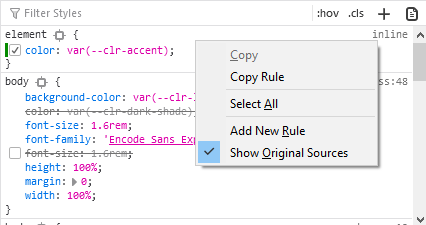
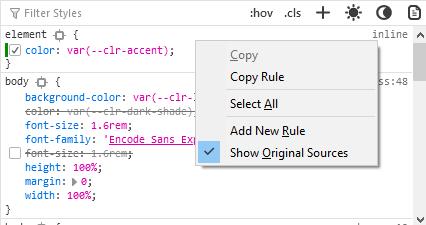
FF87 Color scheme simulation updates (#2562)
* Experimental features: remove color-scheme-simulation pref

* Cross link the media query to the developer tools

* Initial work on Examine/edit CSS page

* Fix up images and docs

* Add release note for FF87

* Also add see also link to page inspector tools

* Compressed images

* Fixes following feedback

* updates following bcd feedback

* small correction

diff --git a/files/en-us/tools/page_inspector/how_to/examine_and_edit_css/index.html b/files/en-us/tools/page_inspector/how_to/examine_and_edit_css/index.html
@@ -14,15 +14,15 @@ tags:
 
 <p>The <a href="/en-US/docs/Tools/Page_Inspector/UI_Tour#rules_view">Rules view</a> lists all the rules that apply to the selected element, ordered from most-specific to least-specific:</p>
 
-<p><img alt="Rules view panel as of Firefox 72" src="rules_view_fx_72.png" style="border: 1px solid black; display: block; margin-left: auto; margin-right: auto;"></p>
+<p><img alt="Rules view panel as of Firefox 87" src="rules_view_ff_87.png" style="border: 1px solid black; display: block; margin-left: auto; margin-right: auto;"></p>
 
-<p>The four buttons on the right top of the rules view allow you to change the display of certain CSS and rules view features. You can:</p>
+<p>The six buttons on the right top of the rules view allow you to change the display of certain CSS and rules view features. You can:</p>
 
 <ul>
  <li><a href="#viewing_common_pseudo-classes">toggle pseudo-classes</a>;</li>
  <li><a href="#viewing_and_changing_classes_on_an_element">toggle classes</a>;</li>
  <li>add a new rule;</li>
- <li>change the display based on the color scheme preference (as of Firefox 72, you must set <code>devtools.inspector.color-scheme-simulation.enabled</code> to <strong>true</strong> in the <a href="https://support.mozilla.org/en-US/kb/about-config-editor-firefox">Configuration Editor</a> to enable this feature);</li>
+ <li>change the display based on <a href="#view_media_rules_for_prefers-color-scheme"><code>prefers-color-scheme</code> media rules</a>.</li>
  <li>change the display based on <a href="#view_media_rules_for_print">print media rules</a>.</li>
 </ul>
 
@@ -38,8 +38,9 @@ tags:
 
 <p>CSS properties have varied level of support across different browsers. From Firefox 81, compatibility tooltips may be displayed next to any CSS properties that have known compatibility issues, as shown below.</p>
 
-<div class="note">
-<p>This feature is enabled from Firefox 81 by setting the preference <code>devtools.inspector.ruleview.inline-compatibility-warning.enabled</code> to <code>true</code> (open <code>about.config</code> in the URL bar to view/set Firefox preferences).</p>
+<div class="notecard note">
+  <h4>Note</h4>
+  <p>This feature is enabled from Firefox 81 by setting the preference <code>devtools.inspector.ruleview.inline-compatibility-warning.enabled</code> to <code>true</code> (open <code>about.config</code> in the URL bar to view/set Firefox preferences).</p>
 </div>
 
 <p><img alt="Tooltip displayed next to CSS element. Hover to find out browsers with compatibility issues." src="firefox_compatibility_tootips.jpg"></p>
@@ -96,8 +97,9 @@ tags:
 
 <p><img alt="" src="filtered_rules.png" style="border: 1px solid black; display: block; margin-left: auto; margin-right: auto;">Click the "X" at the end of the search box to remove the filter.</p>
 
-<div class="note">
-<p>While in the Rules view, you can press <kbd>Ctrl</kbd> / <kbd>Cmd</kbd> + <kbd>F</kbd> to focus the search field. Once you've typed in a filter, you can press <kbd>Esc</kbd> to remove it again.</p>
+<div class="notecard note">
+  <h4>Note</h4>
+  <p>While in the Rules view, you can press <kbd>Ctrl</kbd> / <kbd>Cmd</kbd> + <kbd>F</kbd> to focus the search field. Once you've typed in a filter, you can press <kbd>Esc</kbd> to remove it again.</p>
 </div>
 
 <p>{{EmbedYouTube("9w8vDIWqnAE")}}</p>
@@ -196,15 +198,9 @@ tags:
 
 <p>When on, any rules defined for printing the page will be displayed similar to the "Print Preview" mode that many word processing applications provide.</p>
 
-<h3 id="View_media_rules_for_color-scheme-preference">View @media rules for color-scheme-preference</h3>
+<h3 id="View_media_rules_for_prefers-color-scheme">View @media rules for prefers-color-scheme</h3>
 
-<div class="notecard note">
-<p>As of Firefox 72, you must set <code>devtools.inspector.color-scheme-simulation.enabled</code> to <strong>true</strong> in the <a href="https://support.mozilla.org/en-US/kb/about-config-editor-firefox">Configuration Editor</a> to enable this feature.</p>
-
-<p>If you have set <code>privacy.resistFingerprinting</code> to <strong>true</strong>, <code><a href="/en-US/docs/Web/CSS/@media/prefers-color-scheme">prefers-color-scheme</a></code><a href="/en-US/docs/Web/CSS/@media/prefers-color-scheme"> </a>preference is overridden to <code>light</code>. In order to use this simulator, you must set <code>privacy.resistFingerprinting</code> to <strong>false</strong>.</p>
-</div>
-
-<p>You can use the color scheme simulator to see how the styles display based on the <code><a href="/en-US/docs/Web/CSS/@media/prefers-color-scheme">prefers-color-scheme</a></code> media query, if it is defined for the page. The color scheme simulator has four states, which you can cycle through by clicking the button repeatedly:</p>
+<p>The color scheme simulator buttons can be used to test the rendering of styles based on the <code><a href="/en-US/docs/Web/CSS/@media/prefers-color-scheme">prefers-color-scheme</a></code> media query (if any are defined for the page). There are two buttons, which enable the light and dark preference, respectively. Selecting either button deselects the other. If neither button is selected then the simulator does not set a preference, and the browser renders using the default feature value set by the operating system.</p>
 
 <table class="standard-table">
  <thead>
@@ -218,22 +214,33 @@ tags:
   <tr>
    <td><img alt="" src="color_scheme_null.png" style="border-style: solid; border-width: 1px;"></td>
    <td>null</td>
-   <td>The <code>prefers-color-scheme</code> media feature is not defined.</td>
+   <td>The <code>prefers-color-scheme</code> media feature is not set by the simulator.
+  </td>
   </tr>
   <tr>
    <td><img alt="" src="color_scheme_light.png" style="border-style: solid; border-width: 1px;"></td>
    <td><code>light</code></td>
-   <td>The user prefers a light interface.</td>
+   <td>The <code>prefers-color-scheme</code> media feature is set to <code>light</code>.</td>
   </tr>
   <tr>
-   <td><img alt="" src="color_scheme_dark.png" style="border-style: solid; border-width: 0px;"></td>
+   <td><img alt="" src="color_scheme_dark.png" style="border-style: solid; border-width: 1px;"></td>
    <td><code>dark</code></td>
-   <td>The user prefers a dark interface.</td>
+   <td>The <code>prefers-color-scheme</code> media feature is set to <code>dark</code>.</td>
   </tr>
  </tbody>
 </table>
 
-<p>Note that the first three states of the button may be difficult to distinguish visually. They typically produce a similar effect.</p>
+<p>Note that if the operating system mode is set to a particular mode, then simulating that mode will not change page rendering (i.e. simulating dark mode when the operating system is using dark mode will not change the display).</p>
+
+<div class="notecard note">
+  <h4>Note</h4> 
+  <p>If <code>privacy.resistFingerprinting</code> has been set <strong>true</strong>, the <code><a href="/en-US/docs/Web/CSS/@media/prefers-color-scheme">prefers-color-scheme</a></code> preference is forced to <code>light</code>. You must set <code>privacy.resistFingerprinting</code> to <strong>false</strong> in order to use this feature.</p>
+</div>
+
+<div class="notecard note">
+  <h4>Note</h4>
+  <p>Before Firefox 87 this feature is behind the preference <code>devtools.inspector.color-scheme-simulation.enabled</code>.</p>
+</div>
 
 <h2 id="Examine_computed_CSS">Examine computed CSS</h2>
 
@@ -251,8 +258,9 @@ tags:
 
 <p>Typing in the search box performs a live filtering of the list, so, for example, if you just want to see font-related settings, you can type "font" in the search box, and only properties with "font" in the name will be listed. You can also search for the values of properties: to find the rule responsible for setting the font to "Lucida Grande", type that in the search box.</p>
 
-<div class="note">
-<p>While in the Computed view, you can press <kbd>Ctrl</kbd> / <kbd>Cmd</kbd> + <kbd>F</kbd> to focus the search field. Once you've typed in a filter, you can press <kbd>Esc</kbd> to remove it again.</p>
+<div class="notecard note">
+  <h4>Note</h4>
+  <p>While in the Computed view, you can press <kbd>Ctrl</kbd> / <kbd>Cmd</kbd> + <kbd>F</kbd> to focus the search field. Once you've typed in a filter, you can press <kbd>Esc</kbd> to remove it again.</p>
 </div>
 
 <h2 id="Edit_rules">Edit rules</h2>
@@ -299,9 +307,10 @@ tags:
 <p><img alt="" src="track_changes.png" style="border: 1px solid black; display: block; margin: 0 auto;"></p>
 
 <div class="notecard note">
-<p><strong>Note:</strong> You can view changes made to the rules view only. If you edit the CSS using the Style Editor, the changes will not be shown in the changes pane.</p>
-
-<p>Also remember, as noted above, that changes you make to the CSS rules are temporary and will be reset if you reload the page.</p>
+  <h4>Note</h4>
+  <p>You can view changes made to the rules view only. If you edit the CSS using the Style Editor, the changes will not be shown in the changes pane.</p>
+  
+  <p>Also remember, as noted above, that changes you make to the CSS rules are temporary and will be reset if you reload the page.</p>
 </div>
 
 <p>If you are satisfied with the changes you have made, you can copy the new settings to page the edited rule into your stylesheet. Right-click on the changes panel and select <strong>Copy Rule</strong> from the context menu.</p>

diff --git a/files/en-us/web/css/@media/prefers-color-scheme/index.html b/files/en-us/web/css/@media/prefers-color-scheme/index.html
@@ -9,20 +9,17 @@ tags:
   - media feature
   - prefers-color-scheme
 ---
-<div class="notecard note">
-<p>If you have set <code>privacy.resistFingerprinting</code> to <strong>true</strong>, {{cssxref("@media/prefers-color-scheme", "prefers-color-scheme")}} preference is overridden to <code>light</code>.<br>
- Alternately, users can create the numeric preference <code>ui.systemUsesDarkTheme</code> to override the default behavior and return <code>light</code> (value: 0), <code>dark</code> (value: 1), or <code>no-preference</code> (value: 2). (Any other value causes Firefox to return <code>light</code>.)</p>
-</div>
+<p>The <strong><code>prefers-color-scheme</code></strong> <a href="/en-US/docs/Web/CSS">CSS</a> <a href="/en-US/docs/Web/CSS/Media_Queries/Using_media_queries#media_features">media feature</a> is used to detect if the user has requested a light or dark color theme.</p>
 
-<p>The <strong><code>prefers-color-scheme</code></strong> <a href="/en-US/docs/CSS">CSS</a> <a href="/en-US/docs/Web/CSS/Media_Queries/Using_media_queries#Media_features">media feature</a> is used to detect if the user has requested the system use a light or dark color theme.</p>
+<p>The user might indicate this preference through an operating system setting (e.g. light or dark mode) or a user agent setting.</p>
 
 <h2 id="Syntax">Syntax</h2>
 
 <dl>
  <dt><code><dfn>light</dfn></code></dt>
- <dd>Indicates that user has notified the system that they prefer an interface that has a light theme, or has not expressed an active preference.</dd>
+ <dd>Indicates that user has notified that they prefer an interface that has a light theme, or has not expressed an active preference.</dd>
  <dt><code><dfn>dark</dfn></code></dt>
- <dd>Indicates that user has notified the system that they prefer an interface that has a dark theme.</dd>
+ <dd>Indicates that user has notified that they prefer an interface that has a dark theme.</dd>
 </dl>
 
 <h2 id="Examples">Examples</h2>
@@ -94,6 +91,7 @@ tags:
 <h2 id="See_also">See also</h2>
 
 <ul>
+ <li><a href="/en-US/docs/Tools/Page_Inspector/How_to/Examine_and_edit_CSS#view_media_rules_for_prefers-color-scheme">Simulate prefers-color-scheme in Firefox</a> (Firefox Page Inspector > Examine and edit CSS)</li>
  <li><a href="https://www.youtube.com/watch?v=jmepqJ5UbuM">Video tutorial: Coding a Dark Mode for your Website</a></li>
  <li><a href="https://stuffandnonsense.co.uk/blog/redesigning-your-product-and-website-for-dark-mode">Redesigning your product and website for dark mode</a></li>
  <li>Changing color schemes in <a href="https://blogs.windows.com/windowsexperience/2019/04/01/windows-10-tip-dark-theme-in-file-explorer/">Windows</a>, <a href="https://developer.apple.com/design/human-interface-guidelines/macos/visual-design/dark-mode/">macOS</a> and <a href="https://www.theverge.com/2019/5/7/18530599/google-android-q-features-hands-on-dark-mode-gestures-accessibility-io-2019">Android</a>.</li>

diff --git a/files/en-us/mozilla/firefox/experimental_features/index.html b/files/en-us/mozilla/firefox/experimental_features/index.html
@@ -1656,46 +1656,6 @@ tags:
 
 <p>Mozilla's developer tools are constantly evolving. We experiment with new ideas, add new features, and test them on the Nightly and Developer Edition channels before letting them go through to beta and release. The features below are the current crop of experimental developer tool features.</p>
 
-<h4 id="Color_scheme_simulation">Color scheme simulation</h4>
-
-<p>Adds an option to simulate different color schemes allowing to test {{cssxref("@media/prefers-color-scheme", "@prefers-color-scheme")}} media queries. Using this media query lets your style sheet specify whether it prefers a light or dark user interface. This feature lets you test your code without having to change settings in your browser (or operating system, if the browser follows a system-wide color scheme setting). (See {{bug(1550804)}} and {{bug(1137699)}} for more details.)</p>
-
-<table class="standard-table" style="max-width: 42rem;">
- <thead>
-  <tr>
-   <th scope="col" style="vertical-align: bottom;">Release channel</th>
-   <th scope="col" style="vertical-align: bottom;">Version added</th>
-   <th scope="col" style="vertical-align: bottom;">Enabled by default?</th>
-  </tr>
- </thead>
- <tbody>
-  <tr>
-   <th scope="row">Nightly</th>
-   <td>72</td>
-   <td>No</td>
-  </tr>
-  <tr>
-   <th scope="row">Developer Edition</th>
-   <td>72</td>
-   <td>No</td>
-  </tr>
-  <tr>
-   <th scope="row">Beta</th>
-   <td>72</td>
-   <td>No</td>
-  </tr>
-  <tr>
-   <th scope="row">Release</th>
-   <td>72</td>
-   <td>No</td>
-  </tr>
-  <tr>
-   <th scope="row">Preference name</th>
-   <th colspan="2"><code>devtools.inspector.color-scheme-simulation.enabled</code></th>
-  </tr>
- </tbody>
-</table>
-
 <h4 id="Execution_context_selector">Execution context selector</h4>
 
 <p>This feature displays a button on the console's command line that lets you change the context in which the expression you enter will be executed. (See {{bug(1605154)}} and {{bug(1605153)}} for more details.)</p>

diff --git a/files/en-us/mozilla/firefox/releases/87/index.html b/files/en-us/mozilla/firefox/releases/87/index.html
@@ -15,9 +15,8 @@ tags:
 
 <h3 id="Developer_Tools">Developer Tools</h3>
 
-
-
 <ul>
+  <li>Developers can now use the <a href="/en-US/docs/Tools/Page_Inspector/How_to/Examine_and_edit_CSS#view_media_rules_for_prefers-color-scheme">Page Inspector</a> to simulate {{cssxref("@media/prefers-color-scheme", "prefers-color-scheme")}} media queries, without having to change the operating system to light or dark mode ({{bug(1679408)}} and {{bug(1692272)}}).</li>
   <li>Developers can now use the <a href="/en-US/docs/Tools/Page_Inspector/How_to/Examine_and_edit_CSS#viewing_common_pseudo-classes">Page Inspector</a> to toggle the {{cssxref(":target")}} pseudo-class for the currently selected element (in addition to the pseudo-classes that were previously supported: {{cssxref(":hover")}}, {{cssxref(":active")}} and {{cssxref(":focus")}}, {{cssxref(":focus-within")}}, {{cssxref(":focus-visible")}}, and {{cssxref(":visited")}}). ({{bug(1689899)}}).</li>
   <li>Firefox <a href="/en-US/docs/Tools/Page_Inspector/How_to/Examine_and_edit_CSS#rule_display">Page Inspector</a> improvements and bug fixes related to inactive CSS rules:
     <ul>
